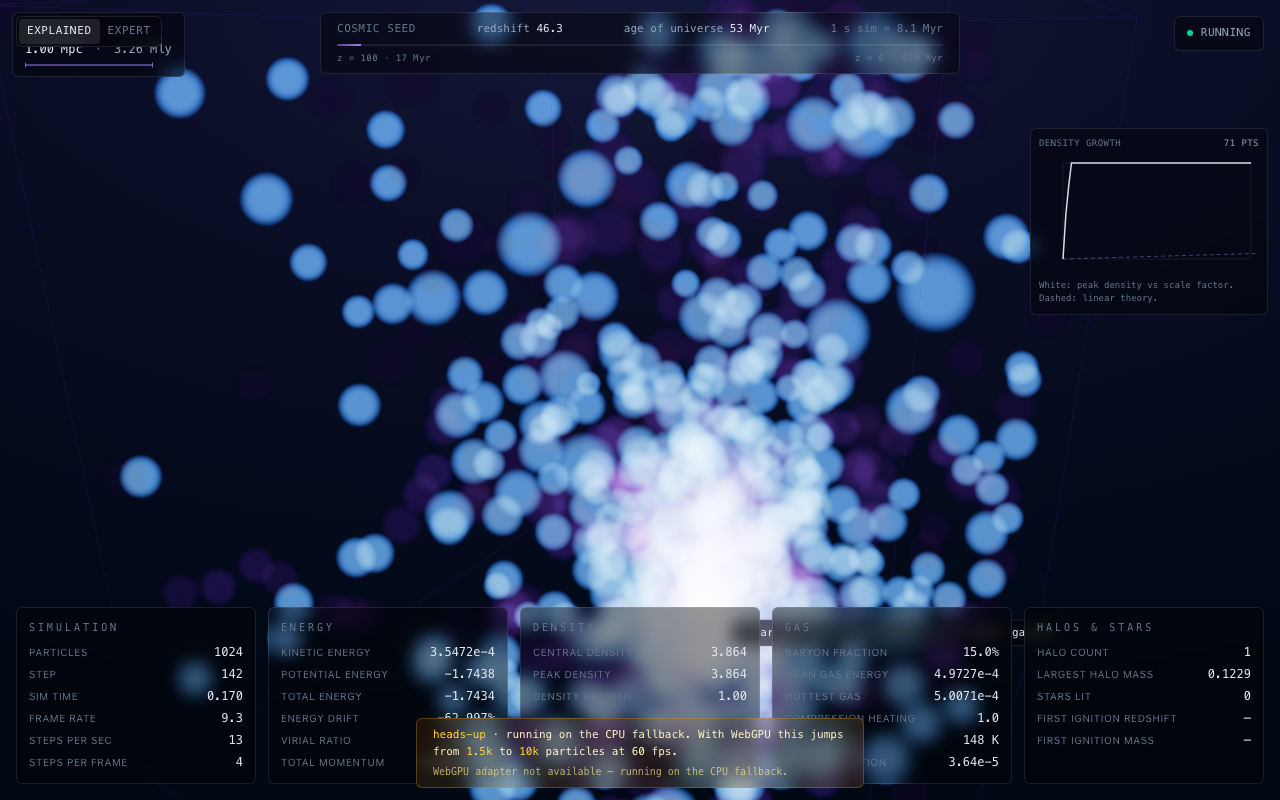
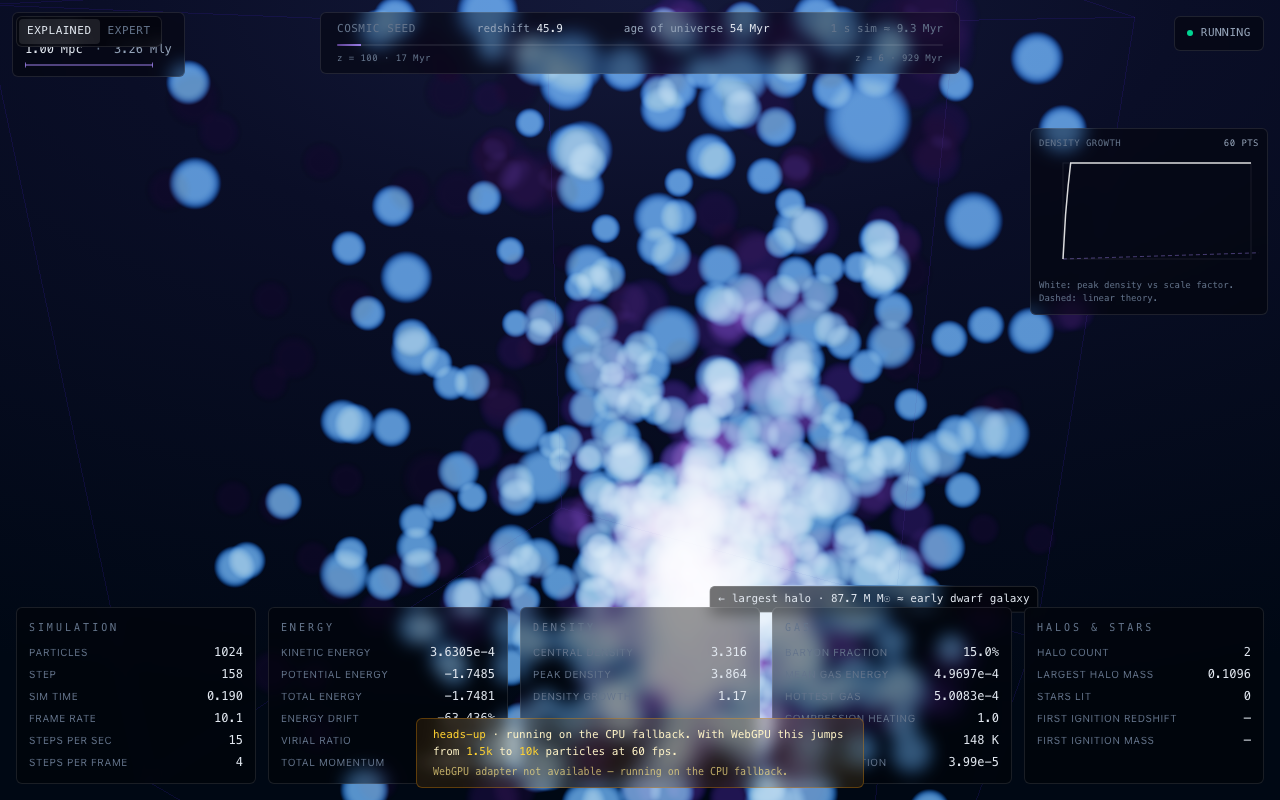
fix(visual): drop wireframe cube, follow halo with periodic unwrap
User asked: "нам точно нужно ограничение в виде куба?" — and they're
right that we don't. The cube was the simulation's *numerical*
periodic-boundary box, not a physical structure. It actively hurt
comprehension: a halo straddling the periodic boundary read as
"two halos glued to opposite walls of a box" instead of one
continuous overdensity wrapped through a periodic neighbour.

Architectural change:

* Wireframe cube removed from the scene. The simulation's periodic
  physics is preserved (min-image gravity, periodic SPH neighbour
  search) — this is purely a rendering change.

* Camera-target follow: `unwrapTarget` lerps slowly (TARGET_LERP =
  0.04, ~ 0.5 s time-constant) toward the snapshot's
  largestHaloCentre. Updates use min-image so a target near the
  periodic wall doesn't overshoot through wraps.

* Per-frame particle unwrap: every DM, gas, and star position is
  re-expressed as `position - target` reduced to (-L/2, L/2] via
  min-image before being uploaded to the GPU. Effect: the dominant
  halo always sits near the scene origin; particles on the periodic
  neighbour side get pulled across the wrap so the surrounding
  cosmic web is rendered as one connected structure regardless of
  where the halo physically wandered.

* Annotation pins receive the same unwrap transform via the
  imperative `updatePinScreenPositions(camera, w, h, { target,
  boxSize })` API. The largest-halo pin's anchor was the raw
[…]

diff --git a/src/ui/SimulationCanvas.tsx b/src/ui/SimulationCanvas.tsx
@@ -1,6 +1,5 @@
 import { useEffect, useRef } from 'react';
 import { createScene } from '@rendering/scene';
-import { createBoxFrame } from '@rendering/box-frame';
 import { createGasCloud, type GasCloud } from '@rendering/gas-cloud';
 import { createParticleCloud, type ParticleCloud } from '@rendering/particle-cloud';
 import { createStarCloud, type StarCloud } from '@rendering/star-cloud';
@@ -221,14 +220,17 @@ export function SimulationCanvas(): React.JSX.Element {
       const gasCloud: GasCloud | null =
         runner.gasCount > 0 ? createGasCloud(runner.gasCount, window.devicePixelRatio) : null;
       if (gasCloud !== null) scene.scene.add(gasCloud.object);
-      // Stage 4: star cloud sized for far more capacity than we'll use; ignited
-      // halos appear as bright white points at their centres.
       const starCloud: StarCloud | null = config.cosmologicalMode
         ? createStarCloud(256, window.devicePixelRatio)
         : null;
       if (starCloud !== null) scene.scene.add(starCloud.object);
-      const boxFrame = config.cosmologicalMode ? createBoxFrame(config.boxHalfExtent) : null;
-      if (boxFrame !== null) scene.scene.add(boxFrame.object);
+      // The wireframe cube was a numerical artefact — the periodic-
+      // boundary box used by the simulation, not a physical structure.
+      // It actively hurt comprehension: halos that straddled the box
+      // wall read as "two halos glued to opposite faces". We keep the
+      // periodic physics but drop the visual cube; particles are
+      // unwrapped around the camera target below so a halo on the
+      // periodic boundary appears as one connected structure.
 
       const store = useSimulationStore.getState();
       store.setParticleCount(runner.count);
@@ -243,16 +245,86 @@ export function SimulationCanvas(): React.JSX.Element {
 
       const dmPositionsBytes = runner.dmCount * 4;
       const gasPositionsByteStart = dmPositionsBytes;
-      const gasPositionsByteEnd = gasPositionsByteStart + runner.gasCount * 4;
+
+      // --- Periodic-unwrap render transform -----------------------------
+      //
+      // Simulation lives in a periodic [-L/2, L/2]³ box. Visually we
+      // don't want to show the box; we want the user's view to follow the
+      // most massive halo so the action stays in frame. To keep the
+      // cosmic web *connected* across the periodic boundary (a halo that
+      // straddles the wall must read as one structure, not two), every
+      // particle gets unwrapped around the live camera target via
+      // min-image: dx = (raw - target) wrapped into [-L/2, L/2].
+      //
+      // The target lerps slowly toward the snapshot's largestHaloCentre
+      // so a sudden halo-rank swap (rare) doesn't jolt the view.
+      const boxSize = 2 * config.boxHalfExtent;
+      const halfBox = config.boxHalfExtent;
+      const unwrapTarget = { x: 0, y: 0, z: 0 };
+      const TARGET_LERP = 0.04; // ~ 0.5 s time-constant at 60 fps
+      const unwrappedDmPositions = new Float32Array(runner.dmCount * 4);
+      const unwrappedGasPositions = new Float32Array(runner.gasCount * 4);
+
+      const minImageDelta = (delta: number): number => {
+        let d = delta;
+        if (d > halfBox) d -= boxSize;
+        else if (d < -halfBox) d += boxSize;
+        return d;
+      };
+
+      const unwrapPositionsAroundTarget = (
+        src: Float32Array,
+        srcOffsetBytes: number,
+        count: number,
+        out: Float32Array,
+      ): void => {
+        const tx = unwrapTarget.x;
+        const ty = unwrapTarget.y;
+        const tz = unwrapTarget.z;
+        for (let i = 0; i < count; i += 1) {
+          const off = srcOffsetBytes / 4 + i * 4;
+          const dx = minImageDelta((src[off] ?? 0) - tx);
+          const dy = minImageDelta((src[off + 1] ?? 0) - ty);
+          const dz = minImageDelta((src[off + 2] ?? 0) - tz);
+          const dst = i * 4;
+          out[dst] = dx;
+          out[dst + 1] = dy;
+          out[dst + 2] = dz;
+          out[dst + 3] = 0;
+        }
+      };
+
+      // Star cloud takes a struct array; build a small unwrapped buffer.
+      const unwrapStars = (
+        stars: readonly { x: number; y: number; z: number; mass: number }[],
+      ): { x: number; y: number; z: number; mass: number }[] =>
+        stars.map((s) => ({
+          x: minImageDelta(s.x - unwrapTarget.x),
+          y: minImageDelta(s.y - unwrapTarget.y),
+          z: minImageDelta(s.z - unwrapTarget.z),
+          mass: s.mass,
+        }));
 
       const loop = createLoop(
         scene,
         {
           async runFrame(stepsPerFrame): Promise<void> {
             const frame = await runner.runFrame(stepsPerFrame);
-            // DM cloud: first dmCount particles + their density buffer.
-            const dmPositions = frame.positions.subarray(0, dmPositionsBytes);
-            dmCloud.syncPositions(dmPositions);
+
+            // Update unwrap target: lerp toward the snapshot's largest-
+            // halo centre via min-image so we don't drift through wraps.
+            const halo = runner.snapshot().largestHaloCentre;
+            if (halo !== null) {
+              unwrapTarget.x += minImageDelta(halo.x - unwrapTarget.x) * TARGET_LERP;
+              unwrapTarget.y += minImageDelta(halo.y - unwrapTarget.y) * TARGET_LERP;
+              unwrapTarget.z += minImageDelta(halo.z - unwrapTarget.z) * TARGET_LERP;
+            }
+
+            // DM cloud: unwrap positions around the target so the halo
+            // sits at the scene origin and surrounding structure reads as
+            // a connected web (no periodic-wall split).
+            unwrapPositionsAroundTarget(frame.positions, 0, runner.dmCount, unwrappedDmPositions);
+            dmCloud.syncPositions(unwrappedDmPositions);
             dmCloud.syncDensities(frame.densities);
             if (frame.maxDensity > lastDensityRange.max) {
               const min = Math.max(1e-3, frame.maxDensity * 1e-2);
@@ -260,13 +332,14 @@ export function SimulationCanvas(): React.JSX.Element {
               lastDensityRange = { min, max: frame.maxDensity };
             }
             if (gasCloud !== null && runner.gasCount > 0) {
-              const gasPositions = frame.positions.subarray(
+              unwrapPositionsAroundTarget(
+                frame.positions,
                 gasPositionsByteStart,
-                gasPositionsByteEnd,
+                runner.gasCount,
+                unwrappedGasPositions,
               );
-              gasCloud.syncPositions(gasPositions);
+              gasCloud.syncPositions(unwrappedGasPositions);
               gasCloud.syncTemperatures(frame.gasInternalEnergy);
-              // Track temperature range for the colormap window.
               let maxT = 0;
               for (const t of frame.gasInternalEnergy) if (t > maxT) maxT = t;
               if (maxT > lastTempRange.max) {
@@ -276,12 +349,15 @@ export function SimulationCanvas(): React.JSX.Element {
               }
             }
             if (starCloud !== null) {
-              starCloud.syncStars(frame.stars);
+              starCloud.syncStars(unwrapStars(frame.stars));
             }
           },
           onRender(s): void {
             const size = canvasSizeRef.current;
-            pinsRef.current?.updatePinScreenPositions(s.camera, size.width, size.height);
+            pinsRef.current?.updatePinScreenPositions(s.camera, size.width, size.height, {
+              target: unwrapTarget,
+              boxSize,
+            });
           },
           async onFrame(): Promise<void> {
             frames += 1;
@@ -341,7 +417,6 @@ export function SimulationCanvas(): React.JSX.Element {
         dmCloud.dispose();
         gasCloud?.dispose();
         starCloud?.dispose();
-        boxFrame?.dispose();
         scene.dispose();
         runner.destroy();
         gpuCtx?.destroy();

diff --git a/src/ui/AnnotationPins.tsx b/src/ui/AnnotationPins.tsx
@@ -26,10 +26,26 @@ import {
   type PinAnchor,
 } from './annotation-pin-builder';
 
+export interface UnwrapTransform {
+  /** Centre that the renderer's particle unwrap is currently anchored to.
+   *  Pin anchors are min-image-translated by this same target so they
+   *  follow the visible cosmic web instead of staying at the raw
+   *  simulation coordinate (which would drift off-screen as the renderer
+   *  re-centres on the dominant halo). */
+  readonly target: { readonly x: number; readonly y: number; readonly z: number };
+  /** Box side length used by the periodic min-image. */
+  readonly boxSize: number;
+}
+
 export interface AnnotationPinsHandle {
   /** Re-project all pins from world to screen using the current camera +
    *  canvas size. Call from the render loop after each frame. */
-  updatePinScreenPositions(camera: THREE.Camera, width: number, height: number): void;
+  updatePinScreenPositions(
+    camera: THREE.Camera,
+    width: number,
+    height: number,
+    unwrap: UnwrapTransform,
+  ): void;
 }
 
 interface AnnotationPinsProps {
@@ -119,12 +135,28 @@ export function AnnotationPins({ ref, unitMassPerMsun }: AnnotationPinsProps): R
   useImperativeHandle(
     ref,
     () => ({
-      updatePinScreenPositions(camera, width, height): void {
+      updatePinScreenPositions(camera, width, height, unwrap): void {
         const map = pinNodesRef.current;
+        const halfBox = unwrap.boxSize * 0.5;
+        const minImage = (delta: number): number => {
+          let d = delta;
+          if (d > halfBox) d -= unwrap.boxSize;
+          else if (d < -halfBox) d += unwrap.boxSize;
+          return d;
+        };
         for (const pin of pins) {
           const node = map.get(pin.id);
           if (node === undefined) continue;
-          const proj = projectWorldToViewport(pin.anchor, camera);
+          // Apply the same min-image unwrap the renderer applies to
+          // particles, so the pin's leader points at the visible halo
+          // (origin-centred in scene space) rather than the raw
+          // simulation coordinate the snapshot recorded.
+          const unwrapped = {
+            x: minImage(pin.anchor.x - unwrap.target.x),
+            y: minImage(pin.anchor.y - unwrap.target.y),
+            z: minImage(pin.anchor.z - unwrap.target.z),
+          };
+          const proj = projectWorldToViewport(unwrapped, camera);
           if (proj === null || proj.behind) {
             node.style.opacity = '0';
             continue;

diff --git a/src/rendering/scene.ts b/src/rendering/scene.ts
@@ -102,14 +102,11 @@ export function createScene(canvas: HTMLCanvasElement): SceneHandle {
   bloomComposer.addPass(new RenderPass(scene, camera));
   const bloom = new UnrealBloomPass(
     new THREE.Vector2(1, 1),
-    // Strength bumped up: with DM now on NormalBlending it stays at
-    // moderate brightness, so stars (which still bloom on layer 1) need
-    // enough strength to read clearly as light sources against the
-    // light-violet cloud, not just be a brighter dot among dots.
-    /* strength */ 1.4,
-    /* radius   */ 0.5,
-    // Threshold can be 0 because the bloom pass renders only layer 1
-    // (stars). DM and gas are simply not rendered there.
+    // Strength + radius pushed so stars dominate the visual hierarchy.
+    // The bloom pass renders only layer 1 (stars), so this affects
+    // nothing else — pure star-glow tuning.
+    /* strength */ 1.8,
+    /* radius   */ 0.7,
     /* threshold*/ 0.0,
   );
   bloomComposer.addPass(bloom);

diff --git a/src/rendering/star-cloud.ts b/src/rendering/star-cloud.ts
@@ -80,9 +80,9 @@ export function createStarCloud(maxStars: number, dpr: number): StarCloud {
     vertexShader: VERT_SHADER,
     fragmentShader: FRAG_SHADER,
     uniforms: {
-      // Bigger sprite so the cross-rays have pixels to work with at the
-      // new camera distance. Selective bloom layer further amplifies.
-      uPointSize: { value: 220.0 },
+      // Big sprite so the cross-rays have pixels to work with at any
+      // sensible camera distance. Selective bloom layer further amplifies.
+      uPointSize: { value: 320.0 },
       uPixelRatio: { value: Math.min(dpr, 2) },
     },
     transparent: true,
